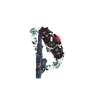
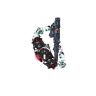
Enlarge map soldiers and normalize animation facing.
Scale units about 3x and rotate shoot/hit frames so every clip faces the same way before combat aim.

Changed region(s): [[0.2812, 0.1562, 0.7188, 0.8438]]

diff --git a/frontend/src/components/PixiArmyLayer.tsx b/frontend/src/components/PixiArmyLayer.tsx
@@ -63,13 +63,24 @@ function badgeTexture(count: number, fill: number): Texture {
     return Texture.from(canvas);
 }
 
-/** Art faces north (+up). Pixi rotation 0 faces east. */
+/**
+ * Soldier art faces north (toward top of texture).
+ * Pixi y grows downward; atan2 from +X, then align art-forward (-Y) to the target.
+ */
 function facingRotation(
     from: { x: number; y: number },
     to: { x: number; y: number }
 ): number {
     return Math.atan2(to.y - from.y, to.x - from.x) + Math.PI / 2;
 }
+
+/** Shared idle facing so every garrison points the same way on the map. */
+const IDLE_FACING = 0;
+
+/** Display scale — ~3× prior size ("at least 200% bigger"). */
+const SCALE_IDLE = 1.15;
+const SCALE_COMBAT = 1.3;
+const SCALE_FX = 1.2;
 
 export default function PixiArmyLayer({
     map,
@@ -195,21 +206,25 @@ export default function PixiArmyLayer({
             const p = map.project(ll);
             const textures = animTexturesRef.current.get(anim);
             const color = ownerColor(ownerId);
-            const scale = opts?.scale ?? 0.42;
+            const scale = opts?.scale ?? SCALE_IDLE;
 
             if (textures && textures.length > 0) {
                 const sprite = new AnimatedSprite(textures);
-                sprite.anchor.set(0.5, 0.62);
-                sprite.animationSpeed = opts?.speed ?? (anim === "idle" ? 0.12 : 0.28);
+                sprite.anchor.set(0.5, 0.55);
+                sprite.animationSpeed =
+                    opts?.speed ?? (anim === "idle" ? 0.12 : 0.28);
                 sprite.loop = opts?.loop ?? anim !== "hit";
                 sprite.tint = color;
-                sprite.width = 96 * scale;
-                sprite.height = 96 * scale;
+                // Uniform scale keeps facing consistent (avoid width/height skew).
+                const base = textures[0].width || 96;
+                sprite.scale.set((96 * scale) / base);
                 sprite.x = p.x + offset.x;
-                sprite.y = p.y - 10 + offset.y;
+                sprite.y = p.y - 12 + offset.y;
                 if (faceToward) {
                     const t = map.project(faceToward);
                     sprite.rotation = facingRotation(sprite, t);
+                } else {
+                    sprite.rotation = IDLE_FACING;
                 }
                 sprite.play();
                 parent.addChild(sprite);
@@ -217,11 +232,11 @@ export default function PixiArmyLayer({
             }
 
             const g = new Graphics();
-            g.circle(0, 0, 7);
+            g.circle(0, 0, 14);
             g.fill({ color, alpha: 0.9 });
-            g.stroke({ width: 1.5, color: 0x2ee6ff, alpha: 0.9 });
+            g.stroke({ width: 2, color: 0x2ee6ff, alpha: 0.9 });
             g.x = p.x + offset.x;
-            g.y = p.y - 18 + offset.y;
+            g.y = p.y - 24 + offset.y;
             parent.addChild(g);
             return g;
         };
@@ -258,28 +273,20 @@ export default function PixiArmyLayer({
                 const isCombatDest =
                     combat &&
                     territory.countryId === combat.destinationCountryId;
-                const isCombatSrc =
-                    combat &&
-                    territory.countryId === combat.sourceCountryId;
                 const displayCount = isCombatDest
                     ? combat.defenderSoldiers
                     : territory.soldiers;
 
-                const face =
-                    isCombatSrc && centers[combat.destinationCountryId]
-                        ? centers[combat.destinationCountryId]
-                        : undefined;
-
-                // Idle soldiers on map; source garrison stays while attackers are mid-field.
+                // Idle soldiers share one facing; combatants aim via faceToward only.
                 if (!isCombatDest) {
                     makeSoldier(
                         layer,
                         ll,
                         territory.ownerFactionId,
                         { x: 0, y: 0 },
-                        combat && isCombatSrc ? "idle" : "idle",
-                        face,
-                        { loop: true, speed: 0.1, scale: 0.38 }
+                        "idle",
+                        undefined,
+                        { loop: true, speed: 0.1, scale: SCALE_IDLE }
                     );
                 }
 
@@ -291,7 +298,7 @@ export default function PixiArmyLayer({
                     ll,
                     displayCount,
                     owner?.color ?? "#333333",
-                    combat ? 22 : 38
+                    combat ? 52 : 64
                 );
             }
 
@@ -310,21 +317,21 @@ export default function PixiArmyLayer({
                         layer,
                         mid,
                         combat.attackerFactionId,
-                        { x: -14, y: -4 },
+                        { x: -22, y: -6 },
                         "shoot",
                         dstLl,
-                        { loop: true, speed: 0.32, scale: 0.46 }
+                        { loop: true, speed: 0.32, scale: SCALE_COMBAT }
                     );
                     makeSoldier(
                         layer,
                         mid,
                         combat.attackerFactionId,
-                        { x: 14, y: 8 },
+                        { x: 22, y: 10 },
                         "shoot",
                         dstLl,
-                        { loop: true, speed: 0.28, scale: 0.42 }
+                        { loop: true, speed: 0.28, scale: SCALE_COMBAT }
                     );
-                    placeBadge(layer, mid, combat.attackerSoldiers, atkColor, 42);
+                    placeBadge(layer, mid, combat.attackerSoldiers, atkColor, 72);
 
                     const defMid: [number, number] = [
                         srcLl[0] * 0.35 + dstLl[0] * 0.65,
@@ -337,7 +344,7 @@ export default function PixiArmyLayer({
                         { x: 0, y: 0 },
                         "shoot",
                         srcLl,
-                        { loop: true, speed: 0.26, scale: 0.44 }
+                        { loop: true, speed: 0.26, scale: SCALE_COMBAT }
                     );
                 }
             }
@@ -371,10 +378,10 @@ export default function PixiArmyLayer({
                         fx,
                         midB,
                         undefined,
-                        { x: 18, y: -8 },
+                        { x: 28, y: -10 },
                         "hit",
                         srcLl,
-                        { loop: false, speed: 0.35, scale: 0.4 }
+                        { loop: false, speed: 0.35, scale: SCALE_FX }
                     );
                 }
                 if ((item.attackerLosses ?? 0) > 0) {
@@ -382,10 +389,10 @@ export default function PixiArmyLayer({
                         fx,
                         midA,
                         undefined,
-                        { x: -18, y: 8 },
+                        { x: -28, y: 10 },
                         "hit",
                         dstLl,
-                        { loop: false, speed: 0.35, scale: 0.4 }
+                        { loop: false, speed: 0.35, scale: SCALE_FX }
                     );
                 }
             } else {
@@ -394,10 +401,10 @@ export default function PixiArmyLayer({
                     fx,
                     midA,
                     undefined,
-                    { x: 0, y: -16 },
+                    { x: 0, y: -24 },
                     "run",
                     dstLl,
-                    { loop: true, speed: 0.4, scale: 0.36 }
+                    { loop: true, speed: 0.4, scale: SCALE_FX }
                 );
             }
 

diff --git a/tools/asset-processing/prepare_soldier_frames.py b/tools/asset-processing/prepare_soldier_frames.py
@@ -19,14 +19,14 @@ TARGET_SIZE = 96
 BLACK_CUTOFF = 18  # near-black → transparent
 
 ANIMS: dict[str, dict] = {
-    # Gentle breathe / ready pose
-    "idle": {"folder": "hipFire", "step": 8, "max": 8},
+    # Gentle breathe / ready pose (art faces north / up)
+    "idle": {"folder": "hipFire", "step": 8, "max": 8, "rotate": 0},
     # March / attack approach
-    "run": {"folder": "run", "step": 4, "max": 13},
-    # Fire during combat rounds
-    "shoot": {"folder": "shoot", "step": 8, "max": 16},
-    # Casualties
-    "hit": {"folder": "hit", "step": 1, "max": 13},
+    "run": {"folder": "run", "step": 4, "max": 13, "rotate": 0},
+    # Fire — source frames face opposite; normalize to north
+    "shoot": {"folder": "shoot", "step": 8, "max": 16, "rotate": 180},
+    # Casualties — same facing fix as shoot
+    "hit": {"folder": "hit", "step": 1, "max": 13, "rotate": 180},
 }
 
 
@@ -71,6 +71,9 @@ def process_anim(name: str, cfg: dict) -> list[str]:
     for i, src in enumerate(picked):
         img = Image.open(src)
         img = make_transparent(img)
+        rotate = int(cfg.get("rotate", 0) or 0)
+        if rotate:
+            img = img.rotate(rotate, expand=False)
         img = img.resize((TARGET_SIZE, TARGET_SIZE), Image.Resampling.LANCZOS)
         dest = out_dir / f"{i:02d}.png"
         img.save(dest, optimize=True)
